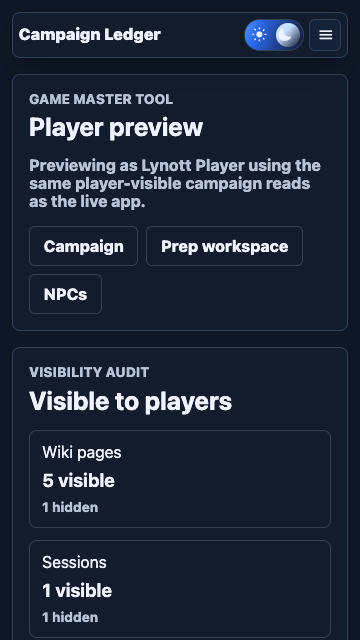
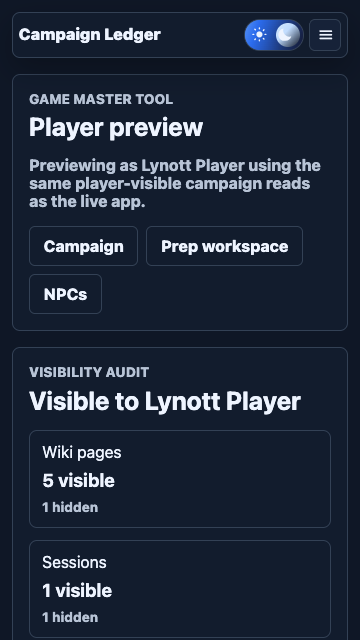
fix(sheet): clarify player preview audit

Changed region(s): [[0.3972, 0.5938, 0.825, 0.6562]]

diff --git a/src/components/pages/Campaign/Campaign.styles.ts b/src/components/pages/Campaign/Campaign.styles.ts
@@ -273,6 +273,31 @@ export const campaignStyles = /* css */ `
   margin: 0;
 }
 
+.campaign-card-copy,
+.campaign-note-preview-list p {
+  color: var(--muted-text-colour);
+  font-weight: 750;
+  margin: 0;
+}
+
+.campaign-note-preview-list {
+  display: grid;
+  gap: 0.55rem;
+}
+
+.campaign-note-preview-list section {
+  border-block-start: 1px solid var(--border-colour);
+  display: grid;
+  gap: 0.25rem;
+  padding-block-start: 0.55rem;
+}
+
+.campaign-note-preview-list h4 {
+  color: var(--heading-colour);
+  font-size: 0.95rem;
+  margin: 0;
+}
+
 .campaign-session-item {
   border-block-start: 1px solid var(--border-colour);
   padding-block-start: 0.75rem;

diff --git a/src/components/pages/Campaign/Campaign.tsx b/src/components/pages/Campaign/Campaign.tsx
@@ -344,7 +344,7 @@ export const CampaignPlayerPreviewPage = ({
         <Panel labelledBy="campaign-visibility-audit-heading">
           <div class="campaign-heading">
             <p class="campaign-kicker">Visibility audit</p>
-            <h2 id="campaign-visibility-audit-heading" class="panel-heading">Visible to players</h2>
+            <h2 id="campaign-visibility-audit-heading" class="panel-heading">Visible to {previewDisplayName ?? "the previewed player"}</h2>
           </div>
           <div class="campaign-audit-grid">
             {auditItems.map((item) => (
@@ -367,6 +367,7 @@ export const CampaignPlayerPreviewPage = ({
                 <div class="campaign-wiki-card-body">
                   <p class="campaign-kicker">{page.pageType}</p>
                   <h3><a href={`/campaigns/${campaign.slug}/wiki/${page.slug}`}>{page.title}</a></h3>
+                  <p class="campaign-card-copy">{previewText(page.bodyMarkdown)}</p>
                   <div class="campaign-tag-list" aria-label={`${page.title} tags`}>
                     {page.tags.map((tag) => <span>{tag}</span>)}
                   </div>
@@ -396,6 +397,7 @@ export const CampaignPlayerPreviewPage = ({
               <article class="campaign-source-item">
                 <h3>{session.title}</h3>
                 <p class="campaign-help-text">{session.summary || "No public summary."}</p>
+                {session.body ? <p class="campaign-card-copy">{previewText(session.body)}</p> : null}
                 <div class="campaign-tag-list">
                   <span>{session.sessionDate ?? "No date"}</span>
                   <span>Player visible</span>
@@ -439,6 +441,14 @@ export const CampaignPlayerPreviewPage = ({
                   <span>{notes.length} visible</span>
                   <span>{character.ownerDisplayName}</span>
                 </div>
+                <div class="campaign-note-preview-list">
+                  {notes.map((note) => (
+                    <section>
+                      <h4>{note.title}</h4>
+                      <p>{previewText(note.body)}</p>
+                    </section>
+                  ))}
+                </div>
               </article>
             ))}
           </div>
@@ -448,6 +458,16 @@ export const CampaignPlayerPreviewPage = ({
     </div>
   </Layout>
 );
+
+function previewText(value: string, maxLength = 160) {
+  const text = value
+    .replace(/!\[[^\]]*]\([^)]*\)/g, "")
+    .replace(/[#*_`>[\]()]/g, " ")
+    .replace(/\s+/g, " ")
+    .trim();
+
+  return text.length > maxLength ? `${text.slice(0, maxLength - 1).trim()}...` : text;
+}
 
 interface NpcListPageProps {
   appName: string;

diff --git a/src/app.test.tsx b/src/app.test.tsx
@@ -1321,9 +1321,14 @@ describe("createApp", () => {
     expect(previewHtml).toContain("<title>Player preview - Rovnost Shadows - Campaign Ledger</title>");
     expect(previewHtml).toContain("Previewing as Lynott Player");
     expect(previewHtml).toContain("Visibility audit");
+    expect(previewHtml).toContain("Visible to Lynott Player");
     expect(previewHtml).toContain("Magister Vallen");
     expect(previewHtml).toContain("Selected players");
     expect(previewHtml).toContain("Factions Guide");
+    expect(previewHtml).toContain("The Skywrights");
+    expect(previewHtml).toContain("Review lines, veils, table logistics");
+    expect(previewHtml).toContain("Player notes");
+    expect(previewHtml).toContain("Keep the false identities ready");
     expect(previewHtml).not.toContain("Game Master reference.");
     expect(previewHtml).not.toContain("Keep Vallen private until the table has enough leverage.");
     expect(previewHtml).not.toContain("Disabled Skybridge Rumour");

diff --git a/src/components/pages/Campaign/Campaign.test.tsx b/src/components/pages/Campaign/Campaign.test.tsx
@@ -288,11 +288,16 @@ describe("CampaignPage", () => {
     expect(html).toContain("<title>Player preview - Rovnost Shadows - Campaign Ledger</title>");
     expect(html).toContain("Previewing as Lynott Player");
     expect(html).toContain("Visibility audit");
+    expect(html).toContain("Visible to Lynott Player");
     expect(html).toContain("1 visible");
     expect(html).toContain("2 hidden");
     expect(html).toContain("Magister Vallen");
     expect(html).toContain("Rovnost cover");
     expect(html).toContain("Lynott Magulbisson");
+    expect(html).toContain("Visible notes.");
+    expect(html).toContain("The public recap.");
+    expect(html).toContain("Clue");
+    expect(html).toContain("Player-facing clue.");
     expect(html).toContain('href="/campaigns/rovnost-shadows/prep"');
   });
 });